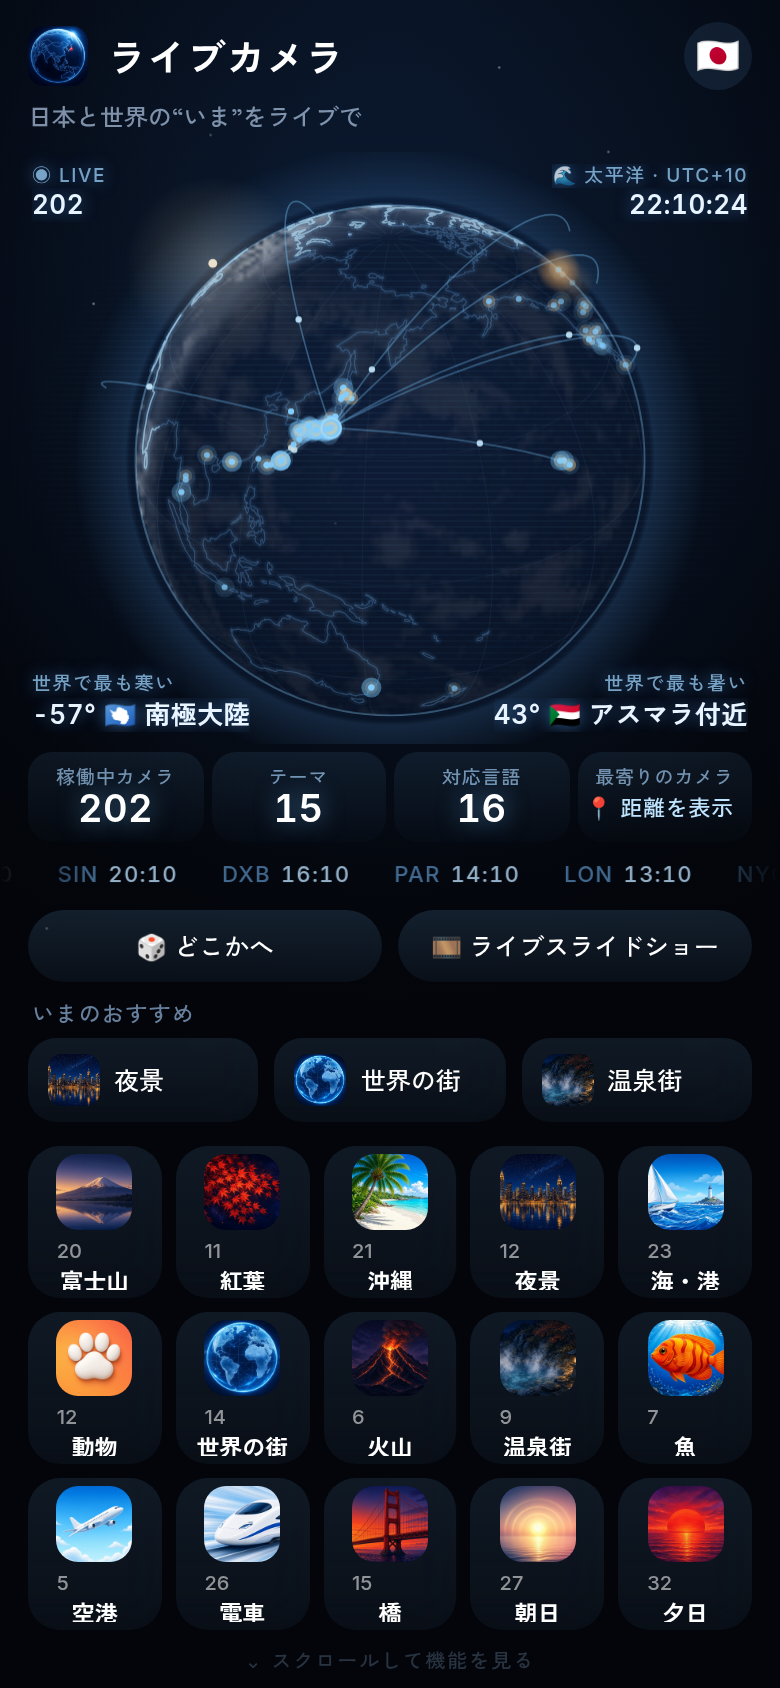
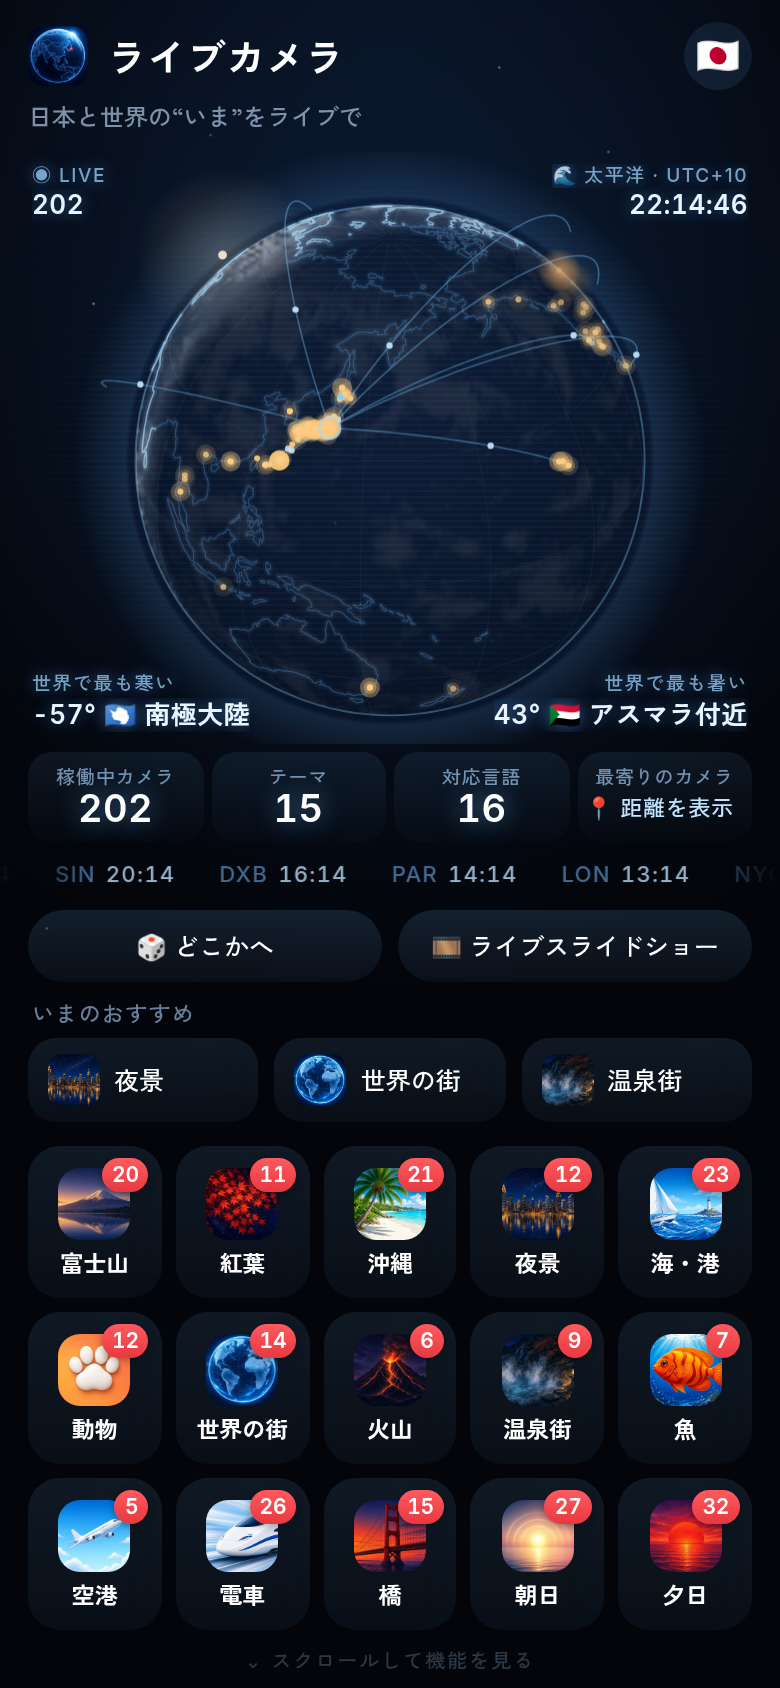
sw lc-v12

diff --git a/index.html b/index.html
@@ -826,7 +826,7 @@ wx();setInterval(wx,600000);
 <script>
 /* PWA: service worker + install hint */
 if('serviceWorker' in navigator&&location.protocol==='https:')addEventListener('load',()=>navigator.serviceWorker.register('sw.js',{updateViaCache:'none'}).then(r=>{r.update().catch(()=>{});document.addEventListener('visibilitychange',()=>{if(!document.hidden)r.update().catch(()=>{});});}).catch(()=>{}));
-const BUILD='1792066361';function verChk(){if(open)return;fetch('version.txt?'+Date.now(),{cache:'no-store'}).then(r=>r.ok?r.text():'').then(v=>{v=v.trim();if(v&&BUILD.indexOf('__')<0&&v!==BUILD){try{if(sessionStorage.getItem('rv')===v)return;sessionStorage.setItem('rv',v)}catch(_){}location.reload();}}).catch(()=>{});}
+const BUILD='1792066498';function verChk(){if(open)return;fetch('version.txt?'+Date.now(),{cache:'no-store'}).then(r=>r.ok?r.text():'').then(v=>{v=v.trim();if(v&&BUILD.indexOf('__')<0&&v!==BUILD){try{if(sessionStorage.getItem('rv')===v)return;sessionStorage.setItem('rv',v)}catch(_){}location.reload();}}).catch(()=>{});}
 setTimeout(verChk,4000);document.addEventListener('visibilitychange',()=>{if(!document.hidden)verChk();});
 if('serviceWorker' in navigator){const had=!!navigator.serviceWorker.controller;let rl=false;navigator.serviceWorker.addEventListener('controllerchange',()=>{if(!had||rl)return;rl=true;if(!open)location.reload();});}
 let PWAEV=null;const PSTD=matchMedia('(display-mode: standalone)').matches||navigator.standalone===true;

diff --git a/sw.js b/sw.js
@@ -1,4 +1,4 @@
-const V='lc-v11',SHELL=['./','index.html','manifest.webmanifest','icon-192.png','icon-512.png','apple-touch-icon.png'];
+const V='lc-v12',SHELL=['./','index.html','manifest.webmanifest','icon-192.png','icon-512.png','apple-touch-icon.png'];
 self.addEventListener('install',e=>{e.waitUntil(caches.open(V).then(c=>c.addAll(SHELL)).then(()=>self.skipWaiting()));});
 self.addEventListener('activate',e=>{e.waitUntil(caches.keys().then(ks=>Promise.all(ks.filter(k=>k!==V).map(k=>caches.delete(k)))).then(()=>self.clients.claim()));});
 self.addEventListener('fetch',e=>{const r=e.request,u=new URL(r.url);if(r.method!=='GET')return;
